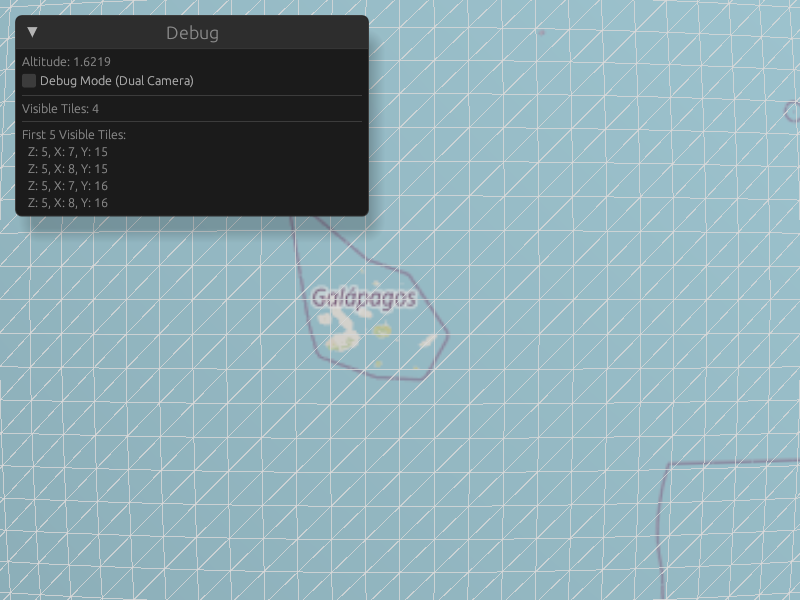
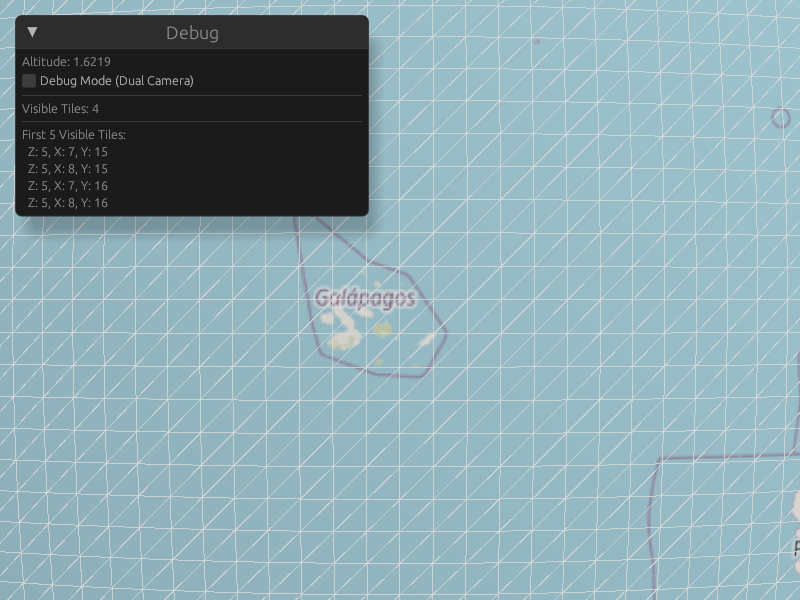
Add dynamic focal length slider to Main Camera

Changed region(s): [[0.0, 0.0, 1.0, 1.0], [0.0, 0.06, 0.0312, 0.24]]

diff --git a/src/camera/camera.rs b/src/camera/camera.rs
@@ -58,6 +58,8 @@ pub struct Camera {
     drag_start_point: Option<glam::DVec3>,
     drag_start_local_pos: Vec3,
     drag_start_local_ori: Quat,
+
+    pub focal_length: f32, // Camera Lens focal length in mm (assuming 24mm vertical sensor height)
 }
 
 impl Camera {
@@ -73,6 +75,7 @@ impl Camera {
             drag_start_point: None,
             drag_start_local_pos: Vec3::ZERO,
             drag_start_local_ori: Quat::IDENTITY,
+            focal_length: 28.0,
         };
         cam.set_eye(position, target);
         cam
@@ -202,7 +205,10 @@ impl Camera {
         let znear = (alt * 0.1).clamp(0.0000001, 10.0);
         let (pos, _) = self.global_transform();
         let zfar = pos.length() + 10.0;
-        Mat4::perspective_rh(std::f32::consts::FRAC_PI_4, aspect_ratio, znear, zfar)
+        
+        let sensor_height = 24.0;
+        let fovy = 2.0 * (sensor_height / (2.0 * self.focal_length)).atan();
+        Mat4::perspective_rh(fovy, aspect_ratio, znear, zfar)
     }
 
     // --- RAYCASTING & DRAGGING (Earth Free Mode) ---

diff --git a/src/render/wgpu_state.rs b/src/render/wgpu_state.rs
@@ -818,6 +818,11 @@ impl<'a> WgpuState<'a> {
                         ui.add(egui::DragValue::new(&mut roll_deg).speed(1.0).prefix("R: "));
                     });
 
+                    ui.horizontal(|ui| {
+                        ui.label("Lens:");
+                        ui.add(egui::Slider::new(&mut self.camera.focal_length, 12.0..=200.0).text("Focal Length (mm)"));
+                    });
+
                     if pitch_deg != pitch.to_degrees()
                         || yaw_deg != yaw.to_degrees()
                         || roll_deg != roll.to_degrees()